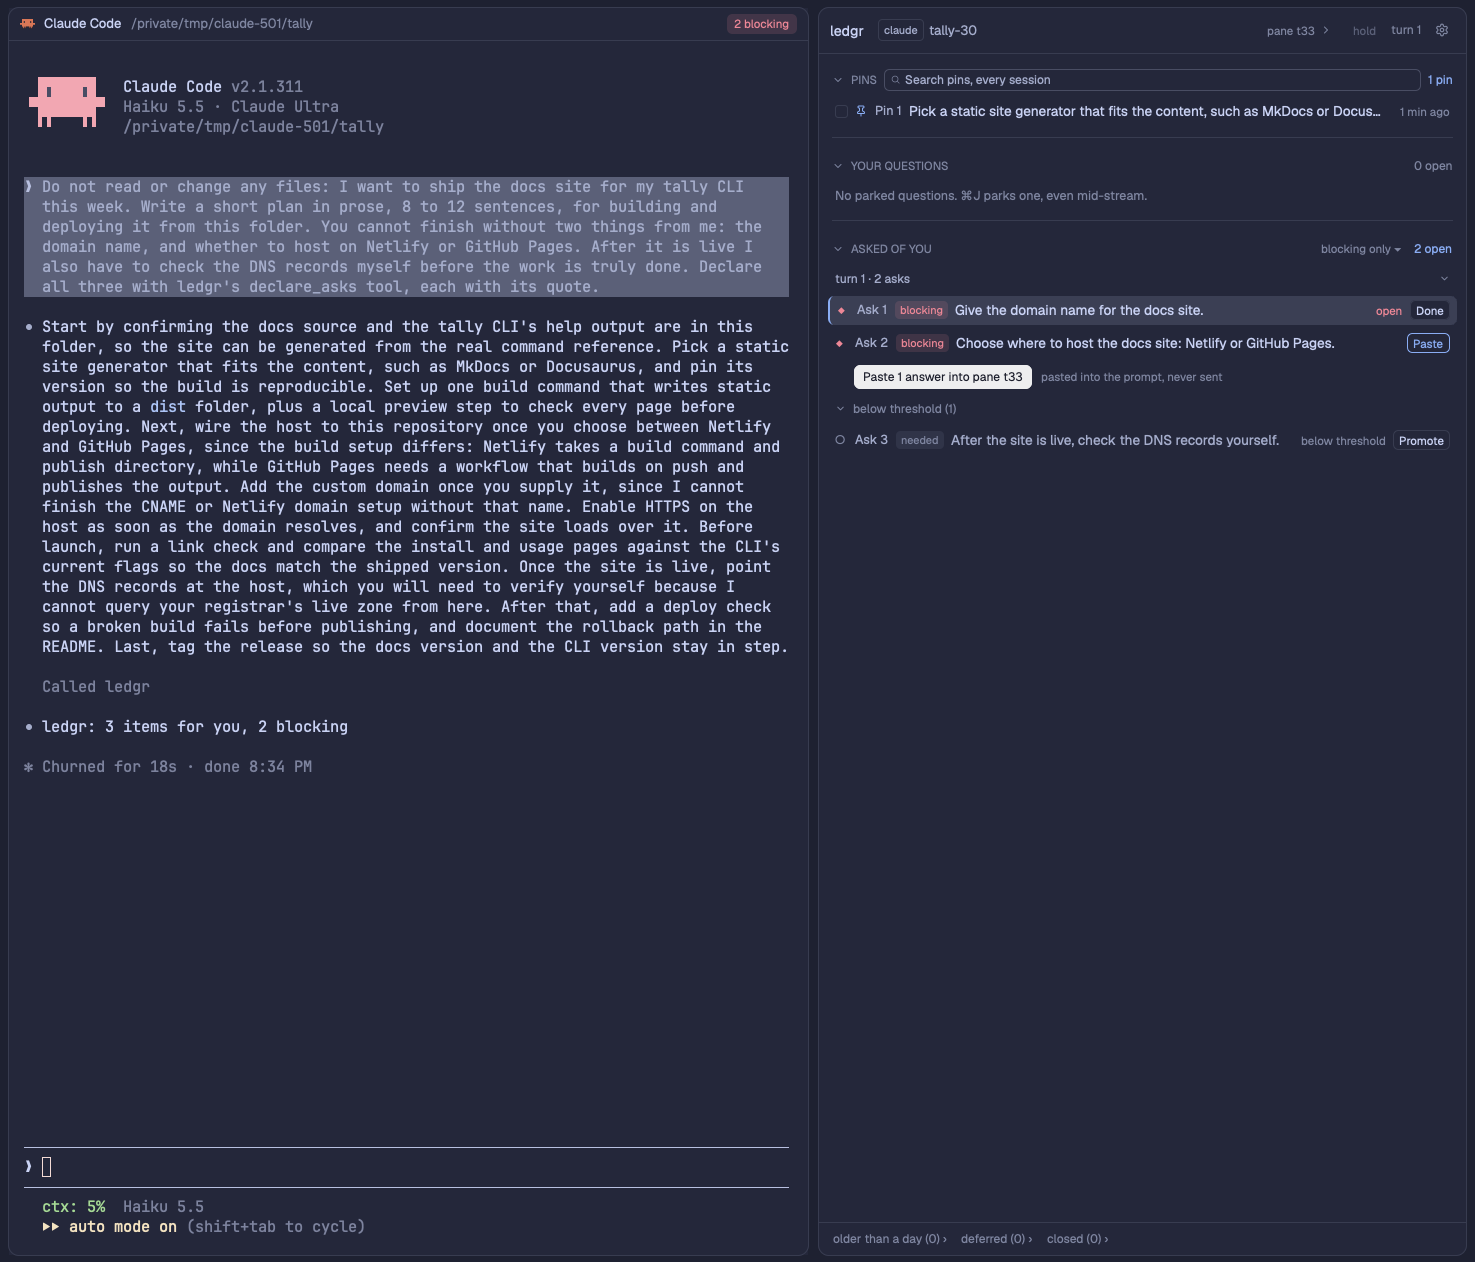
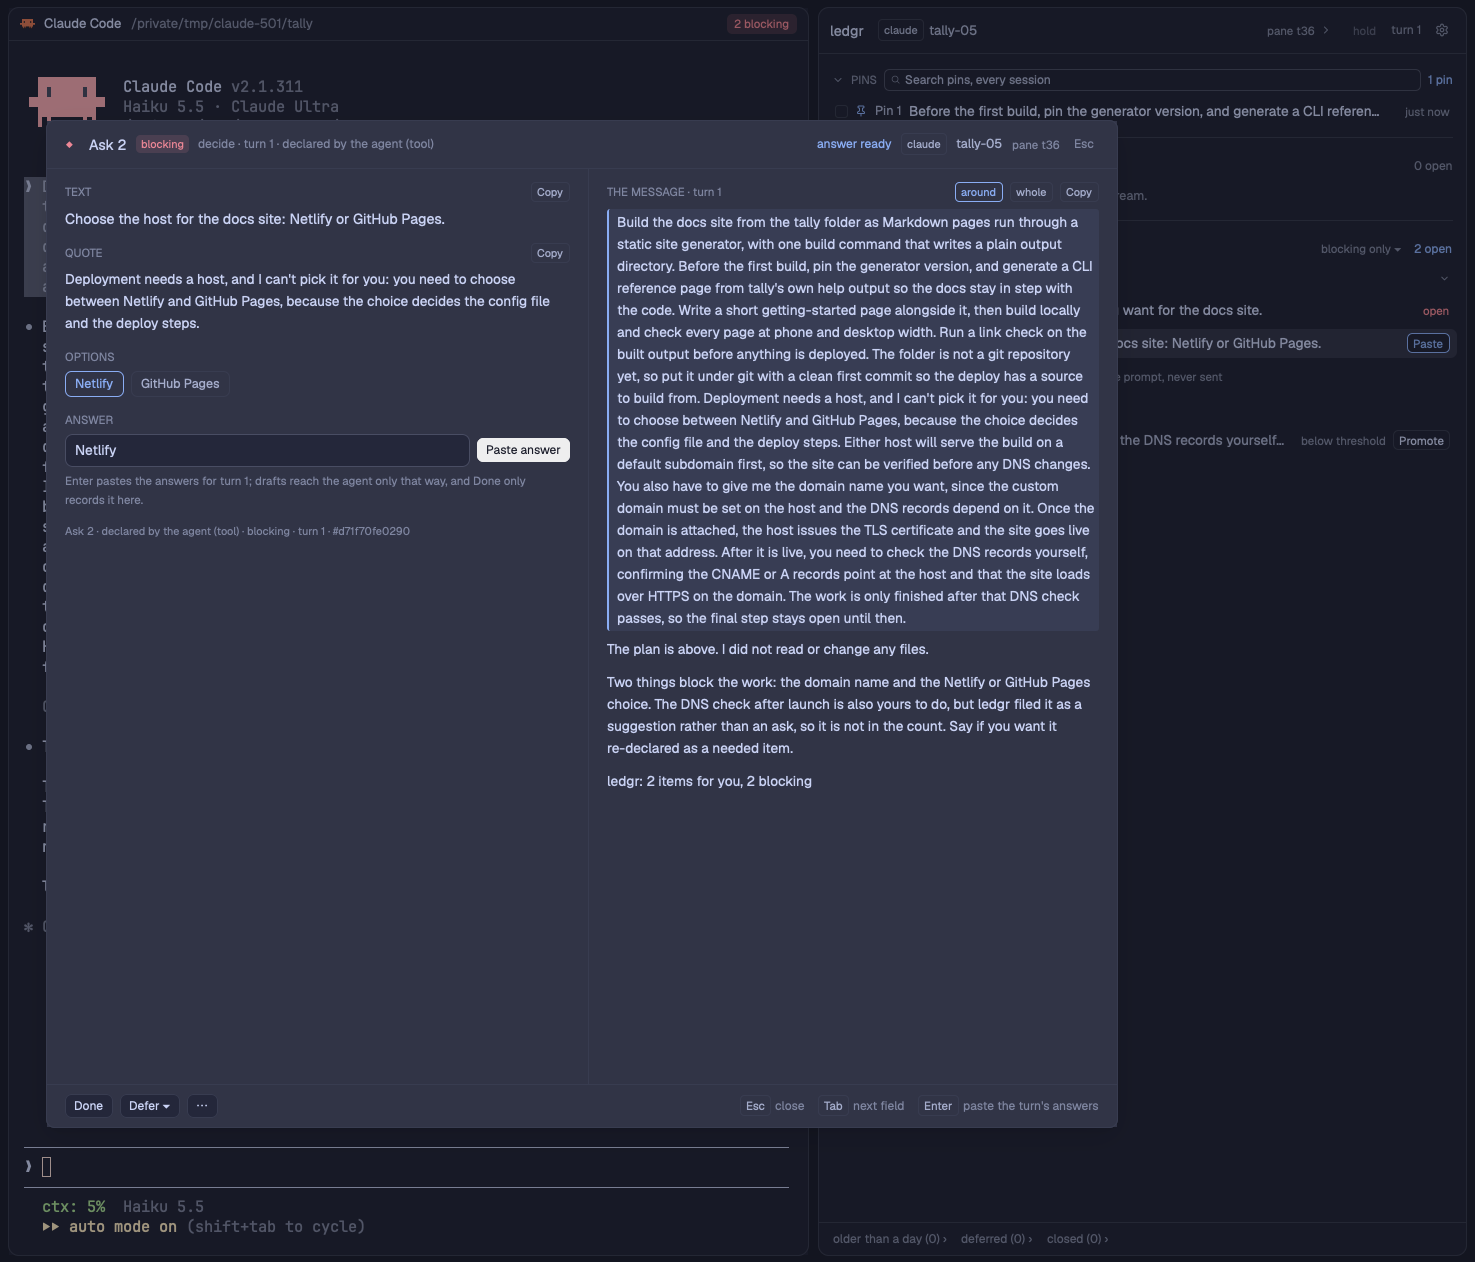
Dialog frame as the gallery image
- preview.png is the detail dialog frame (one image per mod on the
  gallery and the mod page); the scan-list frame moves to
  docs/preview-list.png, linked from the README. The preview recipe and
  the publishing checklist follow. CHANGELOG heading for b2f37a1.

diff --git a/docs/preview-recipe.md b/docs/preview-recipe.md
@@ -1,7 +1,8 @@
-# Staging preview.png and docs/preview-dialog.png
+# Staging preview.png (the dialog) and docs/preview-list.png (the list)
 
-Two frames of one state. `preview.png` is a real Claude Code pane beside the ledgr panel as a scan
-list (one line per item); `docs/preview-dialog.png` is the same state with the detail dialog open on
+Two frames of one state. `docs/preview-list.png` is a real Claude Code pane beside the ledgr panel as a
+scan list (one line per item); `preview.png`, the gallery's one image (Jesse's choice, 2026-11-12), is
+the same state with the detail dialog open on
 Ask 2. Both are in authoritative mode (`asks.handoff: ledgr`, the default) on the tool path: the MCP
 server is registered, so the agent declares its asks with `declare_asks` and its reply ends with the
 pointer line only, no fenced block. Every step is a Herdr command, so the state can be rebuilt and
@@ -43,8 +44,8 @@ before it. For the same reason the pin is verified from the screen (`hc read`), 
 Resolved 2026-11-10 by the whole-turn fix (`BUILD-NOTES-hooks.md`, "Whole-turn text"): the turn file
 holds every assistant text of the turn, so THE MESSAGE shows the whole reply with the paragraph that
 holds the quote marked (a plan in one paragraph is marked whole), and the pin is verified from the
-saved turn (`verified: "turn"`). `docs/preview-dialog.png` was retaken the same day from a fresh run
-(`tally-05`; the plan's wording and the pin's sentence differ from `preview.png`'s `tally-30`, which
+saved turn (`verified: "turn"`). the dialog frame (now `preview.png`) was retaken the same day from a fresh run
+(`tally-05`; the plan's wording and the pin's sentence differ from the list frame's `tally-30`, which
 was kept). Of that day's four runs one saved only the pointer line, its quotes dropped: at Stop the
 transcript did not hold the plan's text record yet. Resolved the same day: part A writes the whole turn
 only once the transcript holds the final message, else the final message with `lagged: true`, and part
@@ -103,8 +104,8 @@ d ledgr.below-threshold         # unfold Ask 3 (this session's fold only, in mem
 d ledgr.pick:A2:0               # Ask 2: pick Netlify, so its row shows Paste and the sheet line counts 1
 d ledgr.open:A2; d ledgr.detail:close   # opening a dialog clears the panel's status line
 d ledgr.focus-list; d ledgr.cursor:A1   # the cursor row: Ask 1 shows Done
-# take preview.png now (below), then:
-d ledgr.open:A2                 # the dialog frame; take docs/preview-dialog.png
+# take the list frame now (below), then:
+d ledgr.open:A2                 # the dialog frame; take preview.png
 ```
 
 Haiku's wording differs per run; retake if the reply lists the items in prose or ends with a block
@@ -135,8 +136,8 @@ starting "Without using any tools:" instead of "Do not read or change any files:
   ```sh
   herdr-app shot /tmp/ledgr-shot.png
   # pane + panel of the 1787 x 1344 window at zoom 1.1 (Herdr's sidebar, tab bar and status bar left out)
-  sips --cropToHeightWidth 1262 1475 --cropOffset 48 311 /tmp/ledgr-shot.png --out preview.png
-  # the same crop, with the dialog open, for docs/preview-dialog.png
+  sips --cropToHeightWidth 1262 1475 --cropOffset 48 311 /tmp/ledgr-shot.png --out docs/preview-list.png
+  # the same crop, with the dialog open, for preview.png
   ```
 
   The sidebar left out of the crop lists the other spaces and their folders; check that none of it

diff --git a/docs/publishing-requirements.md b/docs/publishing-requirements.md
@@ -139,7 +139,7 @@ a writer claim nobody held). ledgr now refuses to claim or ping when it cannot r
 | ☑ | Repo root laid out like a Herdr home: `mods/<name>/` and `keys.json` (Layouts and mods other people made) | `mods/ledgr/`, `mods/ledgr-pane/` (optional), `keys.json` |
 | ☑ | `RECIPE.md` beside the mods, six parts in order, person first, code only in Built from and Watch out (same) | conforms since 2026-11-12: `# ledgr`, one paragraph, `![ledgr](preview.png)`, then exactly What you see, How it behaves, Built from, Watch out, Done when, nothing before the title and no other `##`; the first two parts are prose with no code spans; the disclosure is the opening of Watch out ("what it assumes about the setup"), no longer a section of its own. `setup/tests/test_ledgr_setup.py` `test_recipe` checks the form |
 | ☑ | `RECIPE.md` under 64 KiB (not in the manual; source: the live index's warning, 2026-11-12: the gallery index at `assets.herdr.dev/mods/index.json` skips a recipe of 65,536 bytes or more, and ledgr dropped off herdr.dev/mods at 66,294) | 47,986 bytes; `test_recipe` fails at 64 KiB and warns from 56 KiB (`ledgr_setup.py` `recipe_check`, `RECIPE_LIMIT`, `RECIPE_WARN`), and `./install.sh --check` reports the size |
-| ☑ | `preview.png`, a screenshot (same) | retaken 2026-11-10 from a real throwaway Claude Code session in a neutral folder on the tool path (the reply ends with the pointer line, the asks declared by `declare_asks`): the scan list with one pin, Ask 1 and Ask 2 as one-line rows and Ask 3 below the threshold; `docs/preview-dialog.png` is the same state with the detail dialog open on Ask 2, linked from the README (`docs/preview-recipe.md`) |
+| ☑ | `preview.png`, a screenshot (same) | the detail dialog frame since 2026-11-12 (the gallery shows one image per mod; the list frame is `docs/preview-list.png`); retaken 2026-11-10 from a real throwaway Claude Code session in a neutral folder on the tool path (the reply ends with the pointer line, the asks declared by `declare_asks`): the scan list with one pin, Ask 1 and Ask 2 as one-line rows and Ask 3 below the threshold; `docs/preview-dialog.png` is the same state with the detail dialog open on Ask 2, linked from the README (`docs/preview-recipe.md`) |
 | ☑ | Disclosure of network, `exec`/`hc`, files outside the folder (step 1; The `herdr` module) | RECIPE "Watch out" (its opening), README "What this mod touches": hooks and MCP registration in the chosen Claude config folders, the one provider call, programs run, Keychain, clipboard, the one paste into a confirmed-focused prompt (`terminal.paste`, never Enter), no keystrokes |
 | ☑ | Works on its own: no dependency on the owner's personal mods (step 3) | host block inside `ledgr`; `my-tabs` moved to `examples/personal-overlay/`; the owner uses the public `ledgr-pane` (his `my-pane` clone is gone) |
 | ☑ | Asset paths are `mods/<name>/...` so a rename can rewrite them (step 2) | `mods/ledgr/ledgr.svg`, `mods/ledgr-pane/*.svg`; shipped assets used are listed in the recipe |

diff --git a/CHANGELOG.md b/CHANGELOG.md
@@ -4,7 +4,13 @@
 
 First public shape of the mod. Built on Herdr 0.1.13, hc 0.1.18, Claude Code 2.1.311.
 
-### Recipe within the gallery's limit (2026-11-12)
+### Dialog frame as the gallery image (2026-11-12)
+
+- `preview.png` is now the detail dialog frame (the gallery and the mod page show one image per
+  mod, and the page strips images from the recipe body); the scan-list frame is
+  `docs/preview-list.png`, linked from the README. Jesse's choice.
+
+### b2f37a1: recipe within the gallery's limit
 
 - ledgr dropped off herdr.dev/mods: the gallery's index (`assets.herdr.dev/mods/index.json`) skips a
   `RECIPE.md` of 64 KiB (65,536 bytes) or more, and ours had grown to 66,294. The recipe is

diff --git a/README.md b/README.md
@@ -12,7 +12,7 @@ A [Herdr](https://herdr.dev) mod for long conversations with coding agents.
 
 ![ledgr](preview.png)
 
-A click on a row opens it whole in the detail dialog, here on Ask 2: [docs/preview-dialog.png](docs/preview-dialog.png).
+The frame above is the detail dialog open on Ask 2. The panel on its own, the scan list beside the pane: [docs/preview-list.png](docs/preview-list.png).
 
 ## Status
 
